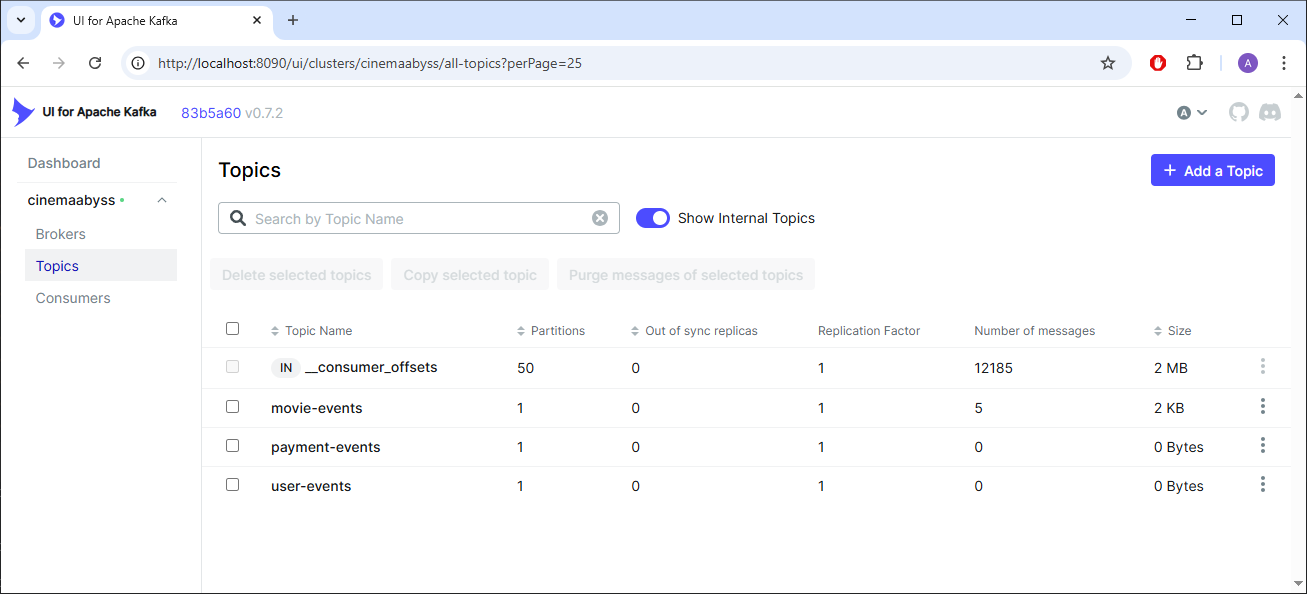
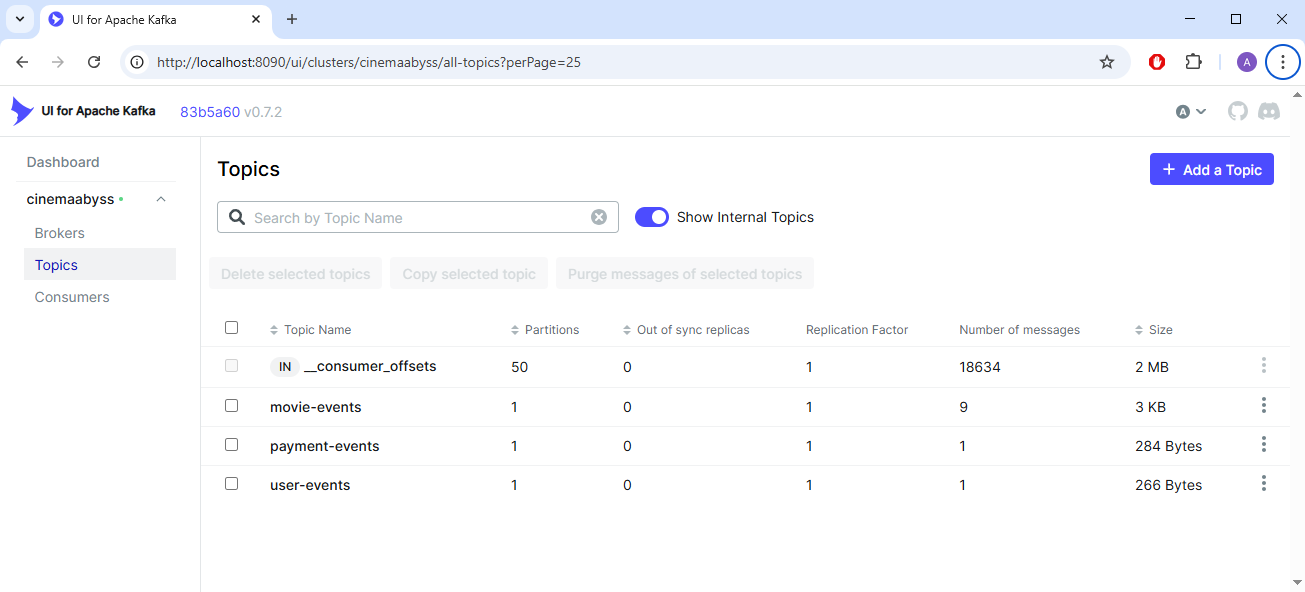
Fix behavior MOVIES_MIGRATION_PERCENT, fix events-service (add kafka topics), fix api-tests.yml and docker-build-push.yml

diff --git a/src/microservices/events/main.py b/src/microservices/events/main.py
@@ -20,7 +20,10 @@ logger = logging.getLogger(__name__)
 #KAFKA_BOOTSTRAP_SERVERS = "cinemaabyss-kafka:9092"
 KAFKA_BROKERS = os.getenv("KAFKA_BROKERS", "kafka:9092").rstrip("/")
 logger.info(f"KAFKA_BROKERS: {KAFKA_BROKERS}")
-KAFKA_TOPIC = "movie-events"
+
+# Определяем список всех топиков, которые мы хотим читать
+TOPICS_TO_SUBSCRIBE = ["movie-events", "user-events", "payment-events"]
+#KAFKA_TOPIC = "movie-events"
 
 # Глобальные переменные для продюсера
 producer: AIOKafkaProducer | None = None
@@ -75,15 +78,15 @@ async def get_producer():
         logger.info("await producer.start() OK")
     return producer
 
-async def consume_messages():
+async def consume_messages(topics_list: list[str]):
     """Асинхронный консьюмер, который читает сообщения из топика."""
     consumer = AIOKafkaConsumer(
-        KAFKA_TOPIC,
+        *topics_list,
         bootstrap_servers=KAFKA_BROKERS,
         group_id="event-consumer-group",
         auto_offset_reset="earliest"
     )
-    logger.info(f"Запуск консьюмера для топика '{KAFKA_TOPIC}'...")
+    logger.info(f"Запуск консьюмера для топиков {', '.join(topics_list)}")
     await consumer.start()
     try:
         async for msg in consumer:
@@ -100,7 +103,7 @@ async def consume_messages():
 
 
 # Вспомогательная функция для публикации в Kafka и обработки ответа
-async def _publish_to_kafka(message_text: str, data_model: BaseModel):
+async def _publish_to_kafka(topic: str, message_text: str, data_model: BaseModel):
     try:
         producer = await get_producer()
 
@@ -110,7 +113,7 @@ async def _publish_to_kafka(message_text: str, data_model: BaseModel):
         )
 
         message_json = json.dumps(event_data.model_dump()).encode("utf-8")
-        metadata = await producer.send_and_wait(KAFKA_TOPIC, message_json)
+        metadata = await producer.send_and_wait(topic, message_json)
 
         return EventResponse(
             status="success",
@@ -133,7 +136,7 @@ async def lifespan(_app: FastAPI):
     Обрабатывает события запуска и завершения приложения.
     """
     # Этот код выполняется при запуске приложения (Startup)
-    asyncio.create_task(consume_messages())
+    asyncio.create_task(consume_messages(TOPICS_TO_SUBSCRIBE))
     logger.info("Микросервис 'events' запущен.")
     yield
     # Этот код выполняется при завершении приложения (Shutdown)
@@ -152,17 +155,8 @@ async def publish_event(event: Event):
     """
     Публикует новое событие в топик Kafka.
     """
-    #try:
-    #    producer = await get_producer()
-    #    message_data = json.dumps(event.model_dump()).encode("utf-8")
-    #    await producer.send_and_wait(KAFKA_TOPIC, message_data)
-    #    logger.info(f"Опубликовано сообщение: {event.message}")
-    #    return {"status": "success", "message": "Event published"}
-    #except Exception as e:
-    #    logger.error(f"Ошибка при публикации сообщения: {e}", exc_info=True)
-    #    raise HTTPException(status_code=500, detail="Failed to publish event"
-
     return await _publish_to_kafka(
+        "movie-events",
         message_text=event.message,
         data_model=event
     )
@@ -199,37 +193,8 @@ async def create_movie_event(movie_event: MovieEvent):
     """
     Принимает данные о событии фильма, форматирует их и отправляет в Kafka.
     """
-    # # try:
-    # #     producer = await get_producer()
-    #
-    #     # Преобразуем входящий MovieEvent в общую модель Event для Kafka
-    #     event_data = Event(
-    #         message=f"Movie action: {movie_event.action} for movie {movie_event.movie_id}",
-    #         data=movie_event.model_dump(exclude_unset=True)  # Используем все предоставленные поля
-    #     )
-    #
-    #     message_data = json.dumps(event_data.model_dump()).encode("utf-8")
-    #
-    #     # Отправляем сообщение и ждем подтверждения
-    #     metadata = await producer.send_and_wait(KAFKA_TOPIC, message_data)
-    #
-    #     logger.info(f"Опубликовано событие фильма: {movie_event.title} (Action: {movie_event.action})")
-    #
-    #     # Формируем ответ согласно EventResponse
-    #     return EventResponse(
-    #         status="success",
-    #         partition=metadata.partition,
-    #         offset=metadata.offset,
-    #         event=event_data
-    #     )
-    #
-    # except Exception as e:
-    #     logger.error(f"Ошибка при публикации события фильма: {e}", exc_info=True)
-    #     raise HTTPException(
-    #         status_code=status.HTTP_500_INTERNAL_SERVER_ERROR,
-    #         detail="Failed to publish movie event"
-    #     )
     return await _publish_to_kafka(
+        topic="movie-events",
         message_text=f"Movie action: {movie_event.action} for movie {movie_event.movie_id}",
         data_model=movie_event
     )
@@ -250,6 +215,7 @@ async def create_user_event(user_event: UserEvent):
     Принимает данные о событии пользователя, форматирует их и отправляет в Kafka.
     """
     return await _publish_to_kafka(
+        topic="user-events",
         message_text=f"User action: {user_event.action} for user {user_event.user_id}",
         data_model=user_event
     )
@@ -270,6 +236,7 @@ async def create_payment_event(payment_event: PaymentEvent):
     Принимает данные о событии платежа, форматирует их и отправляет в Kafka.
     """
     return await _publish_to_kafka(
+        topic="payment-events",
         message_text=f"Payment status: {payment_event.status} for payment {payment_event.payment_id}",
         data_model=payment_event
     )

diff --git a/src/microservices/proxy/main.py b/src/microservices/proxy/main.py
@@ -18,12 +18,14 @@ MOVIES_SERVICE_URL = os.getenv("MOVIES_SERVICE_URL", "http://movies-service:8081
 EVENTS_SERVICE_URL = os.getenv("EVENTS_SERVICE_URL", "http://events-service:8082").rstrip("/")
 
 GRADUAL_MIGRATION = os.getenv("GRADUAL_MIGRATION", "false").lower() in ("1", "true", "yes", "on")
+logger.info(f"GRADUAL_MIGRATION:{GRADUAL_MIGRATION}")
+
 try:
     MOVIES_MIGRATION_PERCENT = max(0, min(100, int(os.getenv("MOVIES_MIGRATION_PERCENT", "0"))))
 except ValueError:
     MOVIES_MIGRATION_PERCENT = 0
+logger.info(f"MOVIES_MIGRATION_PERCENT:{MOVIES_MIGRATION_PERCENT}")
 
-#BACKEND_URL = "http://cinemaabyss-monolith:8080"
 
 HOP_BY_HOP_HEADERS = {
     "connection",
@@ -51,7 +53,7 @@ def choose_backend(path: str, request: Request) -> str:
         return EVENTS_SERVICE_URL
 
     if lower_path.startswith("api/movies"):
-        if GRADUAL_MIGRATION and MOVIES_MIGRATION_PERCENT in (50, 100):
+        if GRADUAL_MIGRATION and MOVIES_MIGRATION_PERCENT > 0:
             logger.info(f"MOVIES_SERVICE_URL: {MOVIES_SERVICE_URL}")
             return MOVIES_SERVICE_URL
         logger.info(f"MONOLITH_URL: {MONOLITH_URL}")
